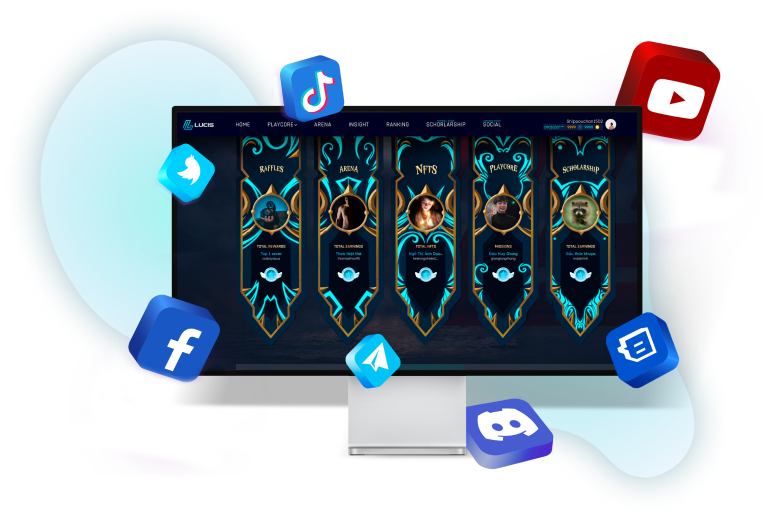
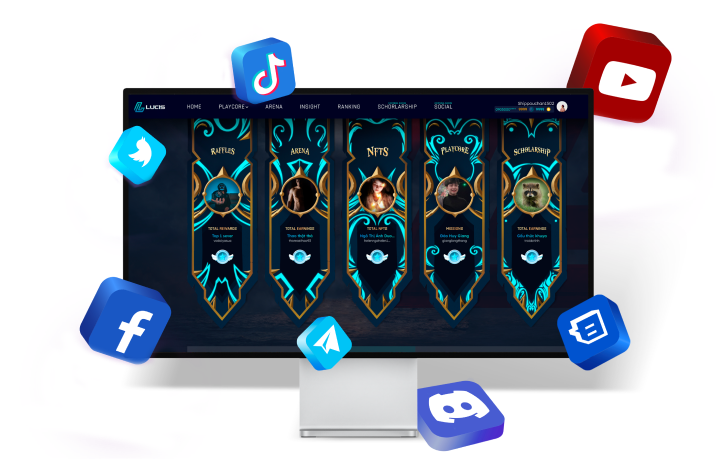
responsive

diff --git a/components/homepage/destiny/index.module.sass b/components/homepage/destiny/index.module.sass
@@ -107,7 +107,7 @@
                     align-items: flex-start
                     justify-content: space-between
                     .left
-                        max-width: 45%
+                        width: 45%
                         padding-right: 24px
                         height: 458px
                         display: flex
@@ -155,15 +155,18 @@
                                 border: 1px solid black
 
                     .right
-                        min-width: 55%
+                        width: 55%
                         display: flex
                         // align-items: center
                         justify-content: center
                         position: relative
                         top: -35px
+                        overflow: hidden
                         img
                             height: 420px
                             width: 713px
+                            object-fit: contain
+                            transform: scale(1.1)
 @media (max-width: 800px)
     .container
         .header
@@ -171,6 +174,77 @@
         .navigate
             padding-bottom: 15px
 
-// @media (min-width: 1240px)
-//     .navigate
-//         justify-content: center !important
+
+@media (max-width: 992px) and ( min-width: 800px)
+    .left
+        .someIntro
+            div
+                font-size: 20px !important
+                line-height: 28px !important
+        .moreBtn
+            margin-top: 10px !important
+    .right
+        img
+            transform: scale(1.1) translateY(-5%) !important
+
+
+@media (max-width: 800px )
+    .left
+        .someIntro
+            div
+                font-size: 16px !important
+                // line-height: 34px !important
+        .moreBtn
+            margin-top: 10px !important
+
+
+@media (max-width: 768px ) 
+    .line
+        margin-top: 10px !important
+    .someDestiny
+        .body_wrapper
+            margin-top: 50px !important
+            .bigName
+                font-size:  24px !important
+            .wrapLR
+                flex-direction: column-reverse
+                .left, .right
+                    width: 100% !important
+                    height: max-content !important
+                    top: 0 !important
+                    padding-right: 0 !important
+                .right 
+                    margin-bottom: 16px !important
+                    img
+                        height: 360px !important
+                        width: 560px !important
+                        object-fit: contain !important
+    
+@media (max-width: 500px ) 
+    .someDestiny
+        .body_wrapper
+            .bigName
+                font-size:  20px !important
+            .wrapLR
+                .right 
+                    img
+                        height: 244px !important
+                        width: 375px !important
+                        object-fit: contain !important
+                        transform: scale(1.4) translateY(27px) !important
+
+@media (max-width: 375px ) 
+    .line
+        margin-top: 10px
+    .someDestiny
+        .body_wrapper
+            .bigName
+                font-size:  16px !important
+            .wrapLR
+                .left
+                    .someIntro
+                        div
+                            font-size: 14px !important
+                            line-height: 20px !important
+                    .moreBtn
+                        margin-top: 10px !important

diff --git a/components/Footer.module.sass b/components/Footer.module.sass
@@ -142,7 +142,7 @@
       margin-top: 20px
       justify-content: space-between
 
-@media (min-width: 540px) and (max-width: 639px)
+@ (min-width: 540px) and (max-width: 639px)
   .heading_footer
     flex-direction: column
     align-items: center
@@ -183,7 +183,7 @@
     .btn
       height: 54px
       flex-basis: 100px
-@media (min-width: 0px) and (max-width: 413px)
+@ (min-width: 0px) and (max-width: 413px)
   .heading_footer
     flex-direction: column
     align-items: center
